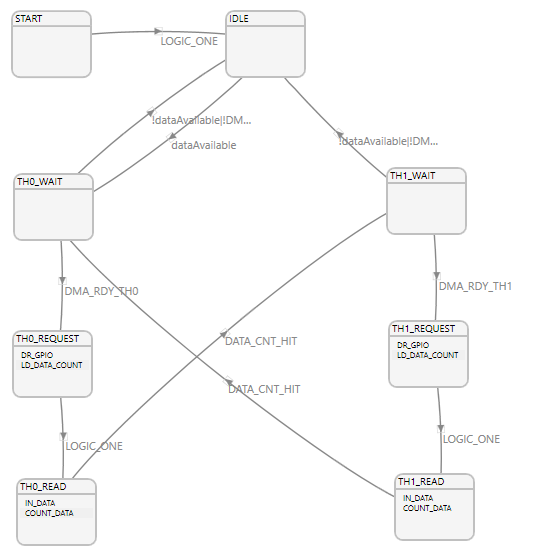
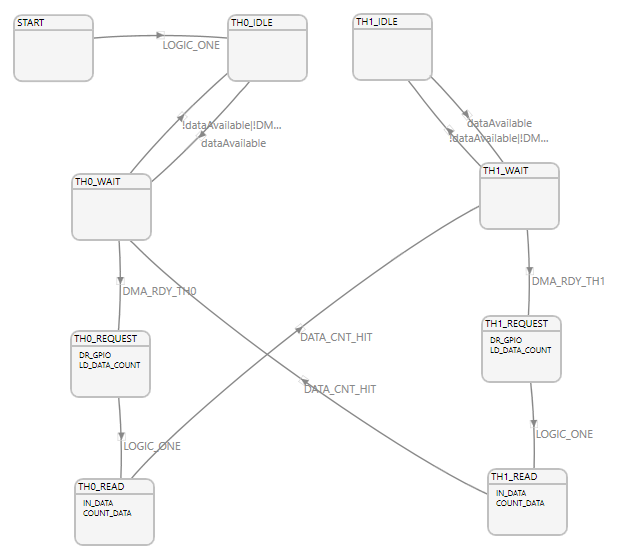
Updated GPIF state-machine model

diff --git a/FX3-Firmware/domesdayDuplicator/domesdayDuplicatorGpif.h b/FX3-Firmware/domesdayDuplicator/domesdayDuplicatorGpif.h
@@ -1,6 +1,6 @@
 /*
  * Project Name: DomesdayDuplicator.cyfx
- * Time : 12/04/2017 21:26:22
+ * Time : 12/05/2017 21:17:14
  * Device Type: FX3
  * Project Type: GPIF2
  *
@@ -21,19 +21,20 @@
 /* Summary
    Number of states in the state machine
  */
-#define CY_NUMBER_OF_STATES 8
+#define CY_NUMBER_OF_STATES 9
 
 /* Summary
    Mapping of user defined state names to state indices
  */
 #define START 0
 #define TH0_REQUEST 2
-#define IDLE 1
+#define TH0_IDLE 1
 #define TH0_WAIT 4
 #define TH0_READ 3
 #define TH1_WAIT 5
 #define TH1_REQUEST 6
-#define TH1_READ 7
+#define TH1_READ 8
+#define TH1_IDLE 7
 
 
 /* Summary
@@ -46,7 +47,7 @@
    Transition function values used in the state machine.
  */
 uint16_t CyFxGpifTransition[]  = {
-    0x0000, 0xAAAA, 0x7777, 0xFFFF, 0xCCCC
+    0x0000, 0xAAAA, 0xFFFF, 0x7777
 };
 
 /* Summary
@@ -57,19 +58,19 @@ uint16_t CyFxGpifTransition[]  = {
  */
 CyU3PGpifWaveData CyFxGpifWavedata[]  = {
     {{0x1E738001,0x00000000,0x80000000},{0x00000000,0x00000000,0x00000000}},
-    {{0x1E701A04,0x00001004,0x80000000},{0x00000000,0x00000000,0x00000000}},
+    {{0x1E701A04,0x00001006,0x80000000},{0x00000000,0x00000000,0x00000000}},
     {{0x1E739403,0x20000000,0x80000040},{0x00000000,0x00000000,0x00000000}},
-    {{0x2E734005,0x04100008,0x80000000},{0x00000000,0x00000000,0x00000000}},
-    {{0x3E739C02,0x00000100,0x81000080},{0x1E738001,0x00000000,0x80000000}},
-    {{0x1E738001,0x00000000,0x80000000},{0x3E739C06,0x00000100,0x81000080}},
-    {{0x1E739407,0x24000000,0x80000040},{0x00000000,0x00000000,0x00000000}}
+    {{0x1E701A05,0x04001006,0x80000000},{0x00000000,0x00000000,0x00000000}},
+    {{0x2E739C02,0x00000100,0x81000080},{0x1E738001,0x00000000,0x80000000}},
+    {{0x2E739C06,0x00000100,0x81000080},{0x1E738007,0x00000000,0x80000000}},
+    {{0x1E739408,0x24000000,0x80000040},{0x00000000,0x00000000,0x00000000}}
 };
 
 /* Summary
    Table that maps state indices to the descriptor table indices.
  */
 uint8_t CyFxGpifWavedataPosition[]  = {
-    0,1,2,3,4,5,6,1
+    0,1,2,3,4,5,6,3,1
 };
 
 /* Summary

diff --git a/FX3-Firmware/domesdayDuplicator/domesdayDuplicator.c b/FX3-Firmware/domesdayDuplicator/domesdayDuplicator.c
@@ -183,7 +183,7 @@ void domDupThreadInitialise(uint32_t input)
 
     // Initialise the debug console
     domDupDebugInit();
-    CyU3PDebugPrint(1, "\r\n\r\nDomesday Duplicator FX3 Firmware - Build 0037\r\n");
+    CyU3PDebugPrint(1, "\r\n\r\nDomesday Duplicator FX3 Firmware - Build 0038\r\n");
     CyU3PDebugPrint(1, "(c)2017 Simon Inns - http://www.domesday86.com\r\n");
     CyU3PDebugPrint(1, "Debug console initialised\r\n");
 
